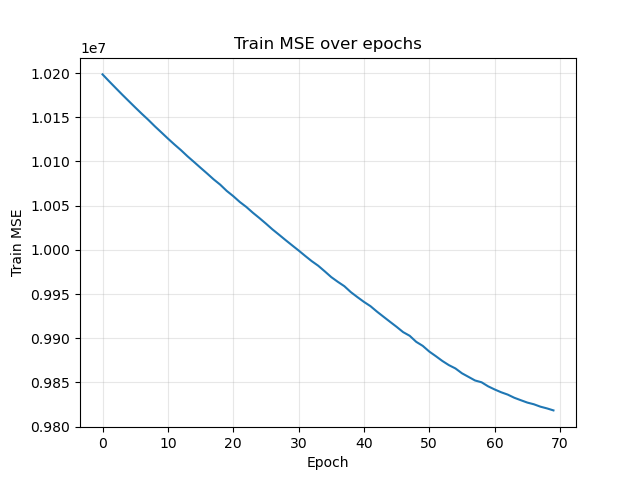
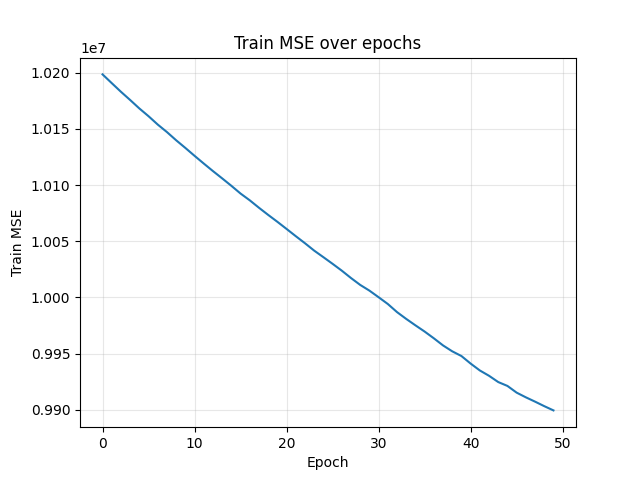
huber 갔다가 이상해서 mse로 돌아옴
지표상으론 630에서 600초반으로 떨어졌지만 그래프 그려보면 그렇게 좋진 않음

diff --git a/benchmark/test/diagnose.py b/benchmark/test/diagnose.py
@@ -1,0 +1,143 @@
+# how to run: python -m benchmark.test.diagnose
+import os
+import math
+import argparse
+import torch
+import torch.nn as nn
+from torch.utils.data import TensorDataset, DataLoader
+from typing import Tuple, Dict
+from benchmark.test.train_msfr import load_dataset, train_val_split, TestModel
+
+"""
+비교 모델: MSFR (Multi-Seasonal Fourier Regression), 단순 평균 베이스라인, 계절성 나이브 베이스라인
+데이터셋: LD2011_2014_converted.csv (15분 단위 전력 소비량 데이터)
+평가 메트릭: RMSE, MAE -> huber 
+
+"""
+
+CSV_PATH = "benchmark/test/LD2011_2014_converted.csv"
+N_HARMONICS = 3
+VAL_RATIO = 0.1
+SEASONAL_LAG = 96
+CKPT_PATH = "./ckpts/msfr_fixed.ckpt"
+
+def compute_metrics(y_true: torch.Tensor, y_pred: torch.Tensor) -> Dict[str, float]:
+    mse = torch.mean((y_pred - y_true) ** 2).item()
+    rmse = math.sqrt(mse)
+    mae = torch.mean(torch.abs(y_pred - y_true)).item()
+    return {"mse": mse, "rmse": rmse, "mae": mae}
+
+
+def per_household_rmse(y_true: torch.Tensor, y_pred: torch.Tensor) -> torch.Tensor:
+    # (N, H) -> 각 가구별 RMSE(H,)
+    se = (y_pred - y_true) ** 2  # (N, H)
+    mse_h = torch.mean(se, dim=0)  # (H,)
+    rmse_h = torch.sqrt(mse_h)  # (H,)
+    return rmse_h
+
+
+def mean_baseline(y_train: torch.Tensor, n_val: int) -> torch.Tensor:
+    # 가구별 학습 평균을 그대로 예측
+    mean_per_house = torch.mean(y_train, dim=0, keepdim=True)  # (1, H)
+    return mean_per_house.repeat(n_val, 1)  # (N_val, H)
+
+
+def seasonal_naive_baseline(y_all: torch.Tensor, split: int, lag: int) -> torch.Tensor:
+    # 검증 구간의 각 시점 t에 대해 t-lag 시점의 값을 그대로 예측
+    # 유효하려면 split - lag >= 0 이어야 함
+    n_val = y_all.shape[0] - split
+    if split - lag < 0:
+        raise ValueError(f"seasonal_naive_baseline: split({split}) - lag({lag}) < 0 으로 사용할 수 없습니다.")
+    start = split - lag
+    end = start + n_val
+    return y_all[start:end]  # (N_val, H)
+
+
+def train_model(X_tr: torch.Tensor, y_tr: torch.Tensor, input_dim: int, output_dim: int, device: torch.device, n_harmonics: int, epochs: int, batch_size: int) -> TestModel:
+    model = TestModel(input_dim=input_dim, output_dim=output_dim, n_harmonics=n_harmonics).to(device)
+    # 주기 초기화(15분 단위: 일/주/년)
+    with torch.no_grad():
+        init_cycles = torch.tensor([96.0, 96.0 * 7.0, 96.0 * 365.0], dtype=torch.float32, device=device)
+        model.msfr.cycle.data = init_cycles
+
+    train_loader = DataLoader(TensorDataset(X_tr, y_tr), batch_size=batch_size, shuffle=True)
+    optimizer = torch.optim.Adam(model.parameters(), lr=1e-3)
+    loss_fn = nn.MSELoss()
+
+    for _ in range(epochs):
+        model.train()
+        for xb, yb in train_loader:
+            optimizer.zero_grad(set_to_none=True)
+            pred = model(xb)
+            loss = loss_fn(pred, yb)
+            loss.backward()
+            optimizer.step()
+
+    return model
+
+
+def main():
+    parser = argparse.ArgumentParser()
+    parser.add_argument("--no-train", action="store_true", help="skip training and only evaluate")
+    args = parser.parse_args()
+
+    if not os.path.exists(CSV_PATH):
+        raise FileNotFoundError(f"cannot find data file: {CSV_PATH}")
+
+    X, y = load_dataset(CSV_PATH)
+    (X_tr, y_tr), (X_val, y_val) = train_val_split(X, y, val_ratio=VAL_RATIO)
+
+    device = torch.device("cuda" if torch.cuda.is_available() else ("mps" if torch.backends.mps.is_available() else "cpu"))
+    X_tr, y_tr = X_tr.to(device), y_tr.to(device)
+    X_val, y_val = X_val.to(device), y_val.to(device)
+
+    input_dim = X_tr.shape[1]
+    output_dim = y_tr.shape[1]
+
+    model = None
+    if CKPT_PATH is not None:
+        # 체크포인트 로드하여 평가만 수행
+        model = TestModel(input_dim=input_dim, output_dim=output_dim, n_harmonics=N_HARMONICS).to(device)
+        with torch.no_grad():
+            init_cycles = torch.tensor([96.0, 96.0 * 7.0, 96.0 * 365.0], dtype=torch.float32, device=device)
+            model.msfr.cycle.data = init_cycles
+        state = torch.load(CKPT_PATH, map_location=device)
+        model.load_state_dict(state)
+        model.eval()
+    elif args.no_train:
+        raise ValueError("'--no-train' was saved but you don`t have '--ckpt' path. If you only want to perform the evaluation, provide the '--ckpt' option. ")
+
+    # 모델 예측 및 핵심 메트릭
+    model.eval()
+    with torch.no_grad():
+        pred_tr = model(X_tr)
+        pred_val = model(X_val)
+
+    train_metrics = compute_metrics(y_tr, pred_tr)
+    val_metrics = compute_metrics(y_val, pred_val)
+    rmse_h = per_household_rmse(y_val, pred_val).detach().cpu()
+
+    print(f"model | train RMSE={train_metrics['rmse']:.3f}, val RMSE={val_metrics['rmse']:.3f}, val MAE={val_metrics['mae']:.3f}")
+    print(f"per-household RMSE | mean={rmse_h.mean().item():.3f}, median={rmse_h.median().item():.3f}, min={rmse_h.min().item():.3f}, max={rmse_h.max().item():.3f}")
+
+    # 베이스라인 비교
+    with torch.no_grad():
+        mean_pred = mean_baseline(y_tr, n_val=y_val.shape[0])
+        mean_pred = mean_pred.to(device)
+        mean_metrics = compute_metrics(y_val, mean_pred)
+    print(f"baseline(mean) | val RMSE={mean_metrics['rmse']:.3f}, val MAE={mean_metrics['mae']:.3f}")
+
+    try:
+        split = X_tr.shape[0]
+        seasonal_pred = seasonal_naive_baseline(torch.cat([y_tr, y_val], dim=0), split=split, lag=SEASONAL_LAG)
+        seasonal_pred = seasonal_pred.to(device)
+        seasonal_metrics = compute_metrics(y_val, seasonal_pred)
+        print(f"baseline(seasonal naive, lag={SEASONAL_LAG}) | val RMSE={seasonal_metrics['rmse']:.3f}, val MAE={seasonal_metrics['mae']:.3f}")
+    except ValueError as e:
+        print(f"skipped baseline(seasonal lag): {e}")
+
+
+if __name__ == "__main__":
+    main()
+
+

diff --git a/benchmark/test/train_msfr.py b/benchmark/test/train_msfr.py
@@ -70,10 +70,10 @@ def train_val_split(X: torch.Tensor, y: torch.Tensor, val_ratio: float = 0.1) ->
     return (X[:split], y[:split]), (X[split:], y[split:])
 
 def lr_lambda(epoch):
-    if epoch < 50:
+    if epoch < 40:
         return 1.0
     else:
-        return 0.95 ** (epoch - 50)
+        return 0.95 ** (epoch - 40)
 
 def main():
     parser = argparse.ArgumentParser(description="Train MSFR and optionally save checkpoint")
@@ -106,7 +106,7 @@ def main():
 
     optimizer = torch.optim.Adam(model.parameters(), lr=2e-2)
     scheduler = LambdaLR(optimizer, lr_lambda=lr_lambda) # lr 스케줄러
-    # loss_fn = nn.HuberLoss() # 휴버 고민해봐야함 (개인적인 경험으로 mse, mae보다 낮다고 봄)
+    # loss_fn = nn.HuberLoss() # 휴버 고민해봐야함 (개인적인 경험으로 mse, mae보다 낮다고 봄) -> 휴버 써봤는데 별로임 mse로 가자
     loss_fn = nn.MSELoss()
 
     cycle_hist = []          # [(day, week, year), ...]
@@ -122,7 +122,7 @@ def main():
     # 에폭 50, lr 스케쥴러 off, adam 2e-2 조합의 성능 비교 결과 0.01의 차이도 없이 똑같음
     # 지금 상황에선 에폭 50, lr 스케쥴러 off, adam 2e-2 조합이 좋은거 같음
     # 아래 코드는 에폭 70, lr 스케쥴러 on, adam 2e-2 조합
-    epochs = 70
+    epochs = 50
     for epoch in range(1, epochs + 1):
         model.train()
         total_loss = 0.0
@@ -159,7 +159,7 @@ def main():
         print(f"lr = {scheduler.get_last_lr()[0]:.6f}")
         print(f"cycle:", model.msfr.cycle.detach().cpu().numpy())
         print()
-    # print(f"[Epoch {epoch:02d}] train MSE: {train_loss:.6f} | val MSE: {val_loss:.6f}")
+    print(f"[Epoch {epoch:02d}] train MSE: {train_loss:.6f} | val MSE: {val_loss:.6f}")
 
 
 # -----------------------검증용 플롯---------------------------
@@ -206,11 +206,11 @@ def main():
     fig4.savefig("msfr_bias_evolution.png")
 
     # 체크포인트 저장 (옵션)
-    # if args.save_ckpt is not None:
-    #     ckpt_path = os.path.abspath(args.save_ckpt)
-    #     os.makedirs(os.path.dirname(ckpt_path), exist_ok=True)
-    #     torch.save(model.state_dict(), ckpt_path)
-    #     print(f"checkpoint saved to: {ckpt_path}")
+    if args.save_ckpt is not None:
+        ckpt_path = os.path.abspath(args.save_ckpt)
+        os.makedirs(os.path.dirname(ckpt_path), exist_ok=True)
+        torch.save(model.state_dict(), ckpt_path)
+        print(f"checkpoint saved to: {ckpt_path}")
 
 if __name__ == "__main__":
     main()
